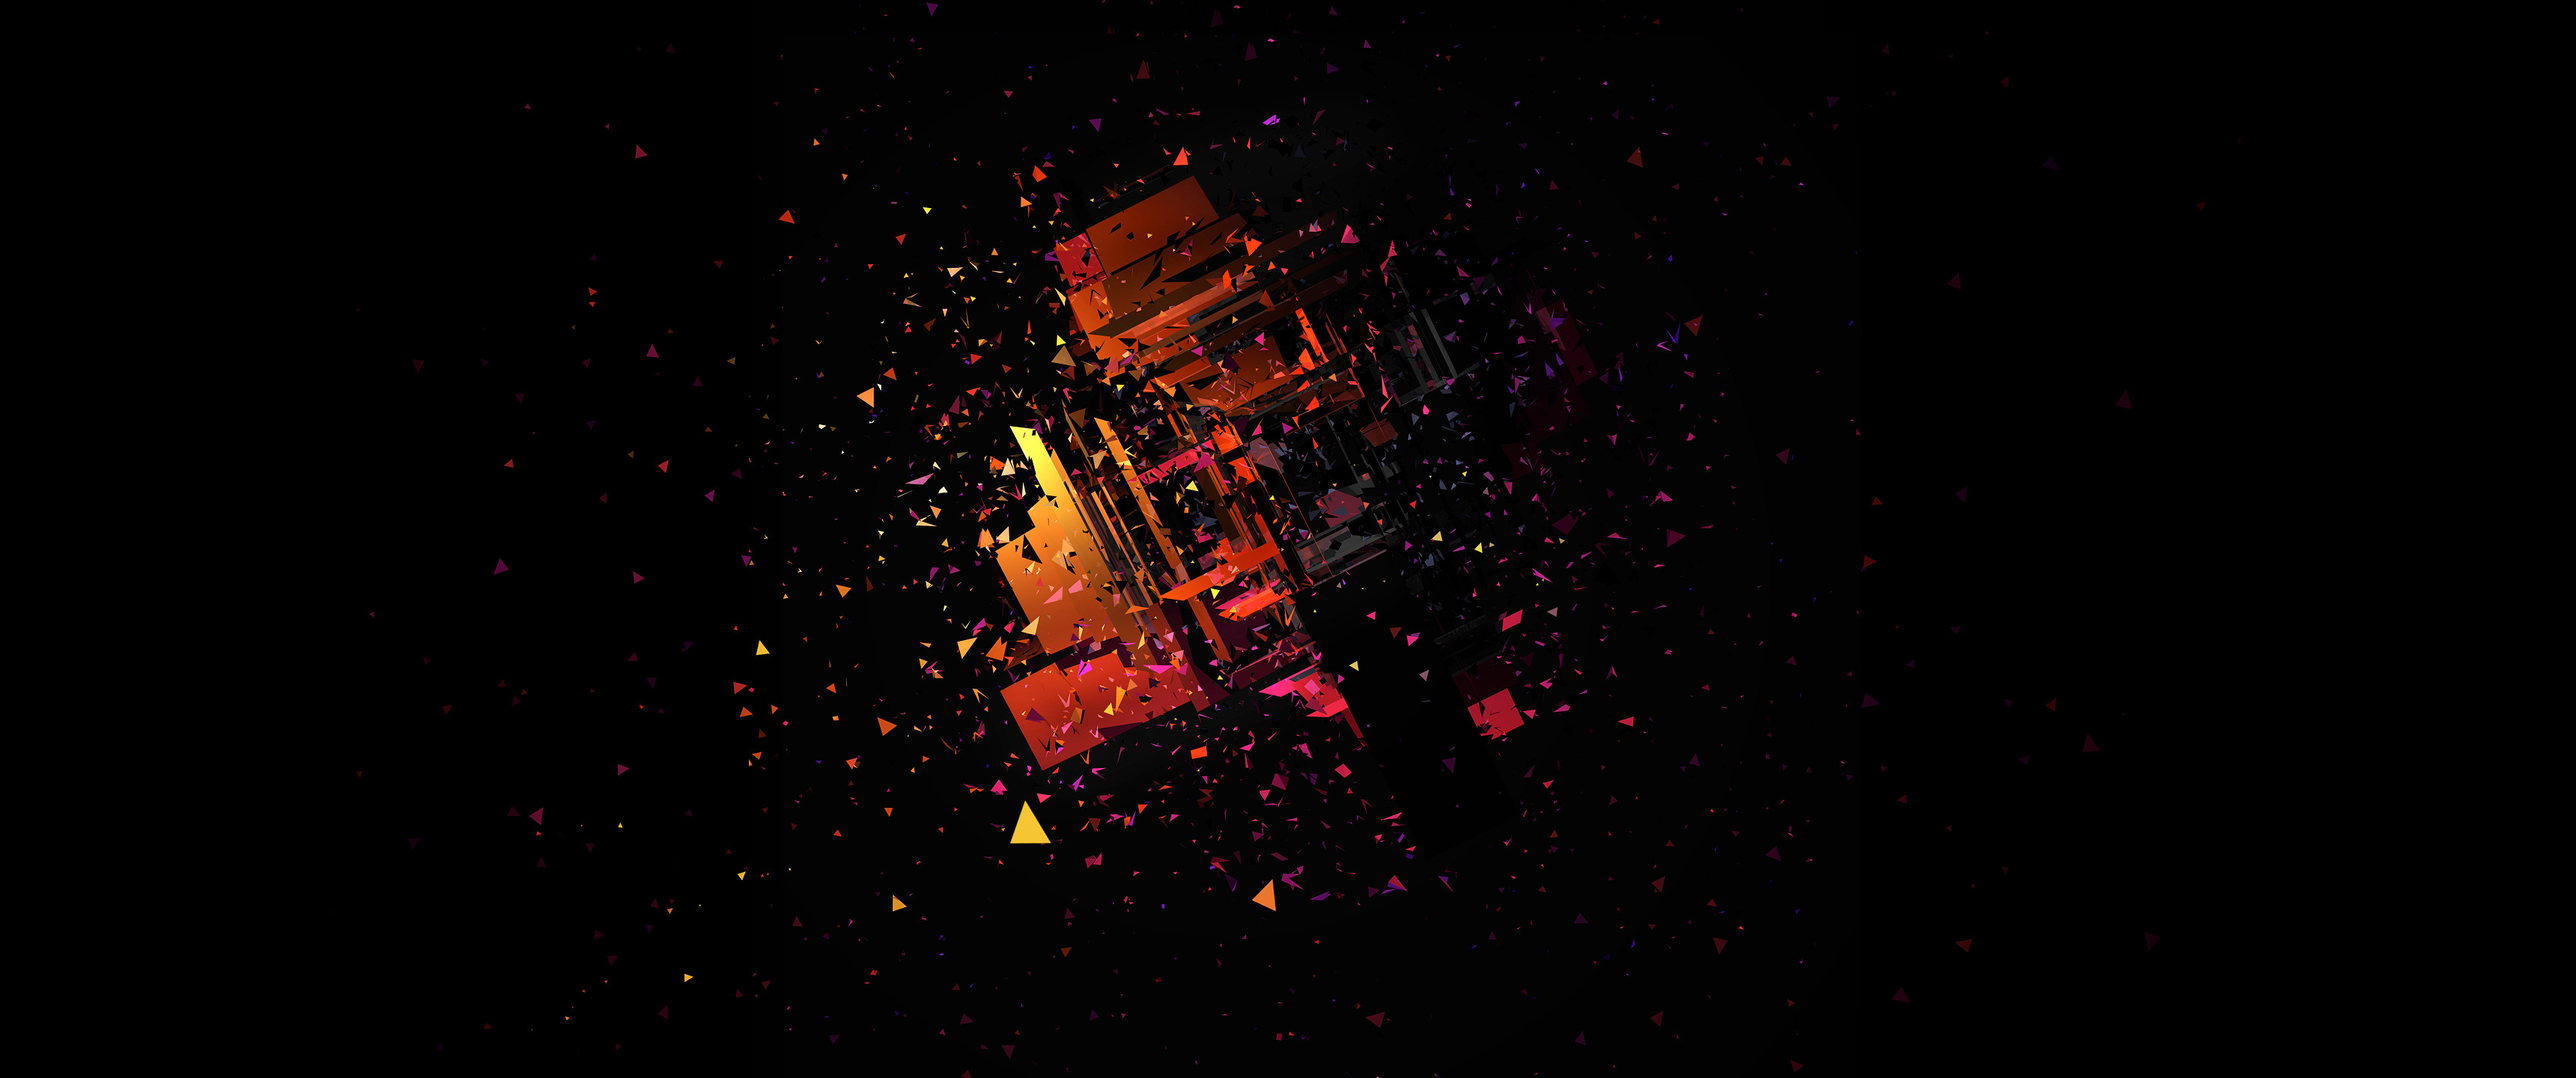
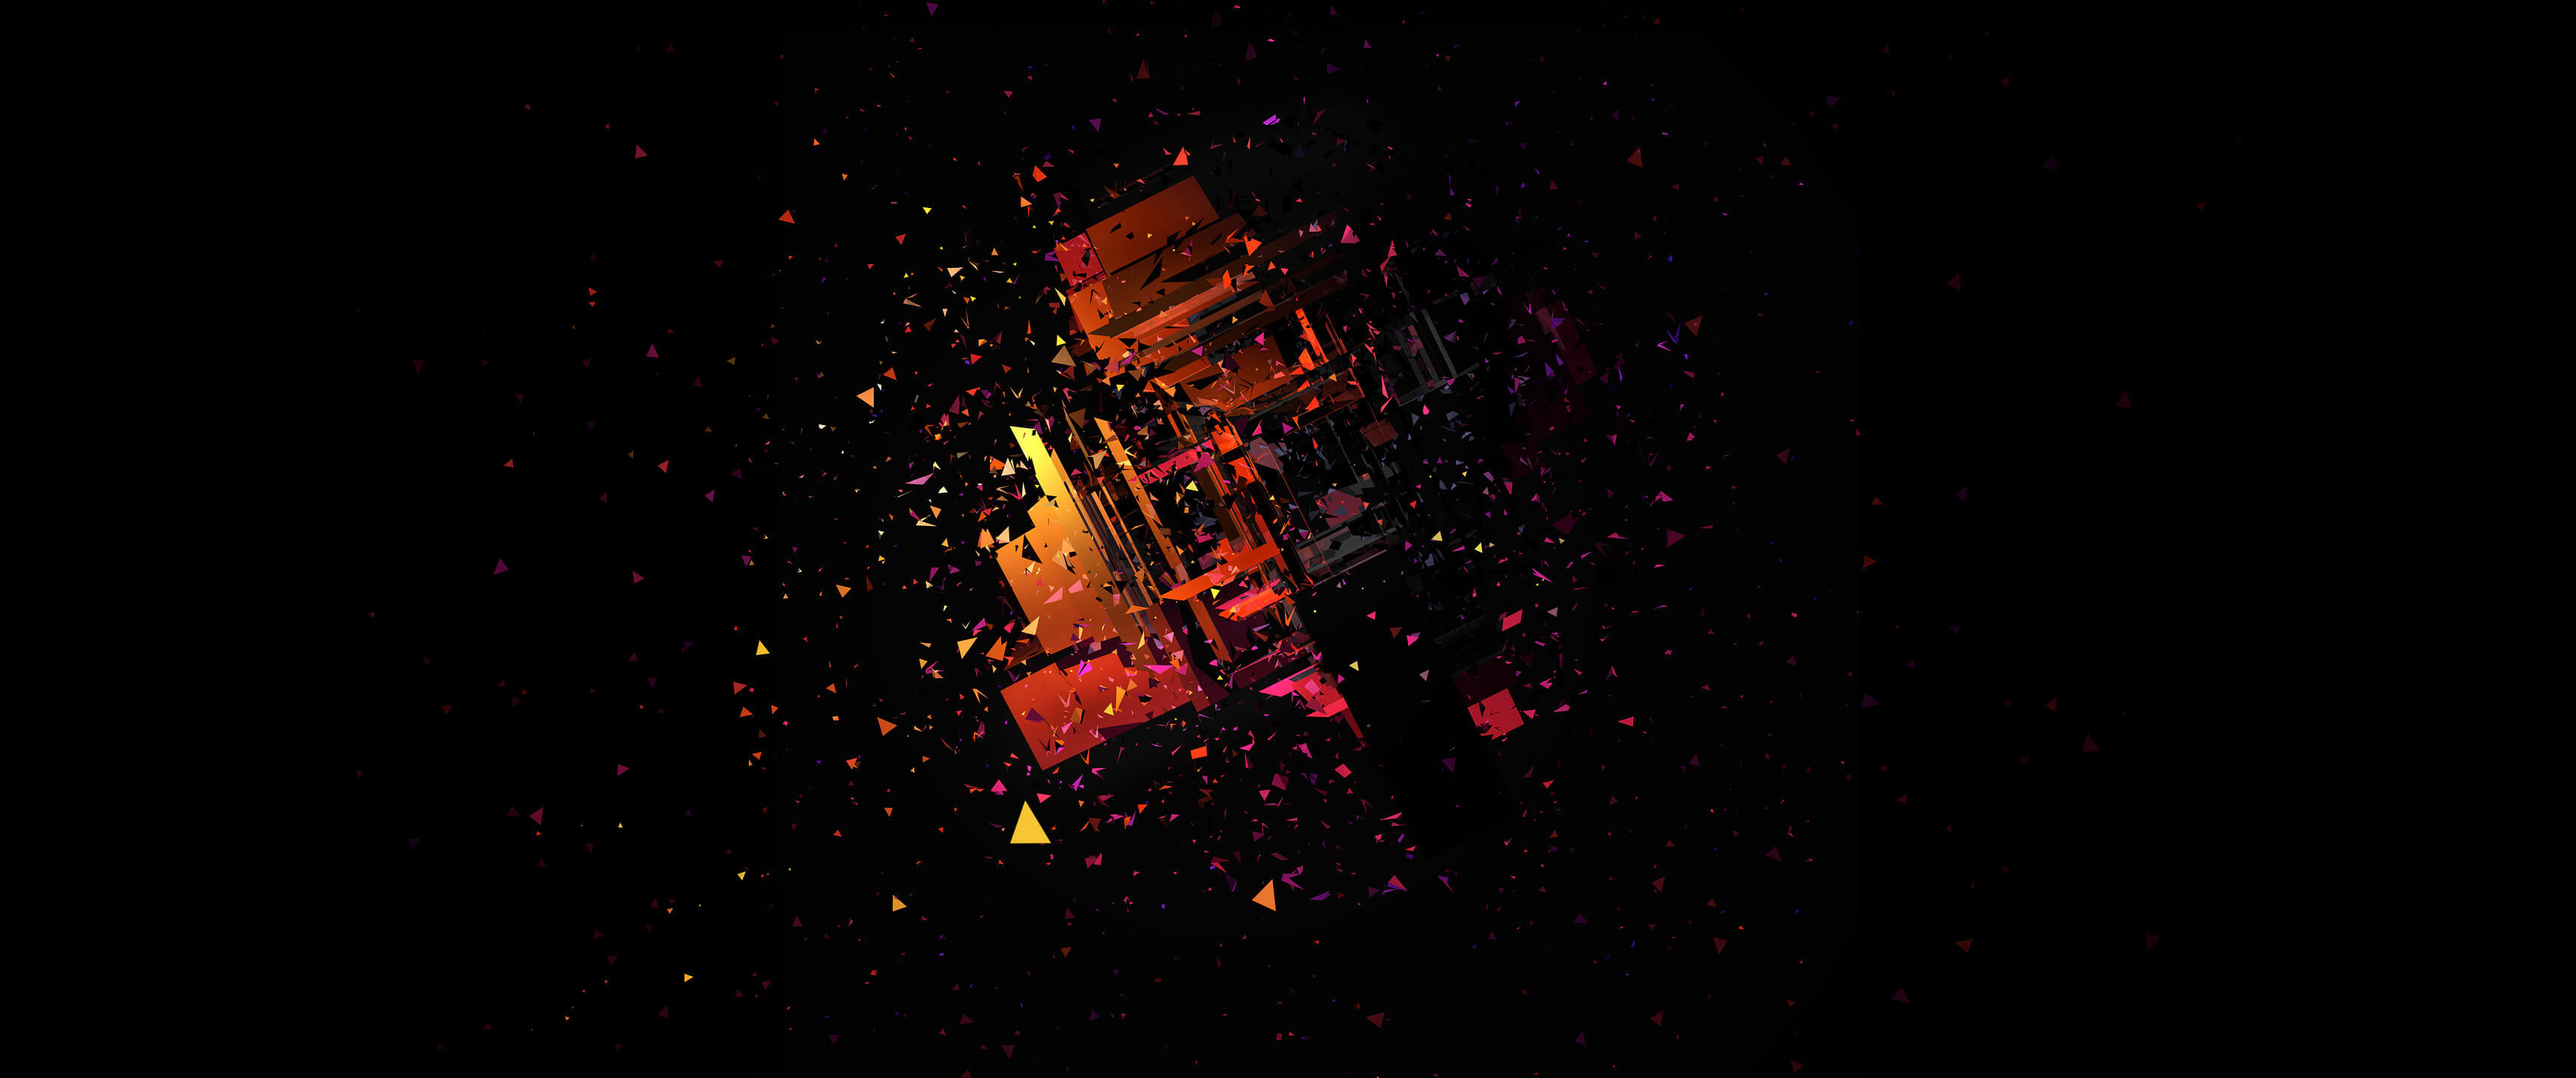
Compress images using tinypng

diff --git a/packages/build-a-language/src/App.tsx b/packages/build-a-language/src/App.tsx
@@ -135,7 +135,7 @@ function App() {
   return (
     <View className={styles.App} style={{ backgroundImage: `url(${backgroundUrl})` }}>
       <View horizontal background="white" alignItems="center" padding="small" horizontalPadding="medium" dropShadow style={{ background: 'hsla(210, 100%, 98%, 0.9)' }}>
-        <Text fontWeight="bold">
+        <Text fontWeight="medium">
           Header
         </Text>
         <Spacer flex />
@@ -146,11 +146,11 @@ function App() {
           <Window title="Examples" style={{ left: 30, top: 30 }}>
             <Examples />
           </Window>
-          <Window title="Calendar" style={{ left: 45, top: 45 }}>
-            <Calendar />
-          </Window>
-          <Window title="Preferences" style={{ left: 60, top: 60, width: 500 }}>
+          <Window title="Preferences" style={{ left: 45, top: 45, width: 500 }}>
             <Preferences onSetBackground={handleSetBackground} />
+          </Window>
+          <Window title="Calendar" style={{ left: 60, top: 60 }}>
+            <Calendar />
           </Window>
           <Window
             title="Tutorial: Let’s Build a Programming Language"
